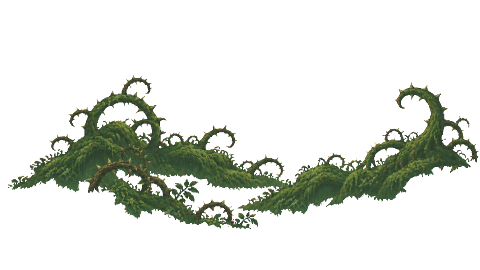
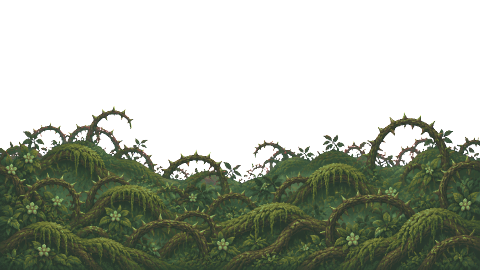
Thornwood: grounded middle layer, mist in front of every layer
- The middle layer was a thorn mound hanging in mid-air over the fog, which
  made the whole background feel like it floated. ChatGPT redrew it as a
  dense thicket of brambles, roots and mossy mounds growing up out of the
  forest floor, filling the bottom of the scene down to the edge.
- The fog was drawn on the far layer with a strong hue shift and showed as
  a hard band. It is now two soft bands of green-tinted ground mist rolling
  in front of all three layers, using a new fogband strip that fades out
  at the top and the bottom.
Release number bumped.

diff --git a/assets/bgfx/bgfx.js b/assets/bgfx/bgfx.js
@@ -1,2 +1,2 @@
 // generated by tools/bgfx.py: what moves in each background (see FX there)
-window.BGFX = {"hall":[{"k":"sprite","L":1,"s":"banner_hall","fps":6,"cx":146,"top":42,"n":6},{"k":"sprite","L":1,"s":"banner_hall","fps":6,"cx":335,"top":42,"t0":0.4,"n":6},{"k":"drift","L":3,"s":"dust","fps":3,"count":14,"area":[0,10,480,220],"vx":3,"vy":-1.5,"wob":4,"a":0.55,"n":4}],"cave":[{"k":"flow","s":"waterflow","fps":10,"a":0.8,"L":1,"m":"mask_cave_0","r":[137,93,13,57],"n":6},{"k":"flow","s":"waterflow","fps":10,"a":0.8,"L":1,"m":"mask_cave_1","r":[155,162,17,51],"n":6},{"k":"flow","s":"waterflow","fps":10,"a":0.8,"L":1,"m":"mask_cave_2","r":[290,122,13,68],"n":6},{"k":"drift","L":2,"s":"firefly","fps":6,"count":10,"area":[20,40,440,170],"vx":2,"vy":-1,"wob":6,"a":0.28,"add":1,"sc":0.5,"tint":"hue-rotate(60deg)","n":4}],"crypt":[{"k":"scroll","L":2,"s":"fog","y":184,"speed":6,"a":0.45,"tint":"hue-rotate(250deg) saturate(0.8)","n":1},{"k":"drift","L":3,"s":"dust","fps":3,"count":14,"area":[0,10,480,220],"vx":3,"vy":-1.5,"wob":4,"a":0.55,"n":4}],"forge":[{"k":"flow","L":1,"s":"lavaflow","fps":9,"a":0.8,"m":"mask_forge_0","r":[186,62,36,107],"n":6},{"k":"flow","L":1,"s":"lavaflow","fps":9,"a":0.8,"m":"mask_forge_1","r":[290,148,44,115],"n":6},{"k":"flow","L":1,"s":"lavaflow","fps":9,"a":0.8,"m":"mask_forge_2","r":[298,112,44,44],"n":6},{"k":"flow","L":1,"s":"lavaflow","fps":9,"a":0.8,"m":"mask_forge_3","r":[363,167,72,89],"n":6},{"k":"flow","L":1,"s":"lavaflow","fps":9,"a":0.8,"m":"mask_forge_4","r":[120,218,41,33],"n":6},{"k":"flow","L":0,"s":"lavaflow","fps":9,"a":0.8,"m":"mask_forge_5","r":[194,75,25,64],"n":6},{"k":"flow","L":0,"s":"lavaflow","fps":9,"a":0.8,"m":"mask_forge_6","r":[242,114,18,17],"n":6},{"k":"drift","L":3,"s":"ember","fps":8,"count":34,"area":[0,60,480,210],"vx":2,"vy":-14,"wob":5,"a":0.9,"add":1,"n":4}],"hollow":[{"k":"scroll","L":0,"s":"fog","y":140,"speed":4,"a":0.5,"n":1},{"k":"scroll","L":1,"s":"fog","y":200,"speed":9,"a":0.4,"n":1},{"k":"drift","L":2,"s":"firefly","fps":5,"count":8,"area":[30,60,420,160],"vx":1,"vy":-1,"wob":8,"a":0.25,"add":1,"sc":0.5,"tint":"saturate(0.2) brightness(1.2)","n":4}],"sanctum":[{"k":"flow","L":0,"s":"runeflow","fps":8,"add":1,"m":"mask_sanctum_0","r":[282,32,111,116],"n":6},{"k":"scroll","L":1,"s":"fog","y":205,"speed":5,"a":0.4,"tint":"hue-rotate(240deg) saturate(1.3)","n":1},{"k":"drift","L":2,"s":"firefly","fps":6,"count":10,"area":[20,30,440,190],"vx":1,"vy":-3,"wob":5,"a":0.25,"add":1,"sc":0.5,"tint":"hue-rotate(220deg) saturate(1.4)","n":4}],"thornwood":[{"k":"scroll","L":0,"s":"fog","y":165,"speed":4,"a":0.35,"tint":"hue-rotate(70deg)","n":1},{"k":"drift","L":2,"s":"firefly","fps":6,"count":12,"area":[20,50,440,180],"vx":2,"vy":-1,"wob":7,"a":0.25,"add":1,"sc":0.5,"n":4}],"glade":[{"k":"flow","s":"waterflow","fps":10,"a":0.8,"L":1,"m":"mask_glade_0","r":[236,137,30,49],"n":6},{"k":"flow","s":"waterflow","fps":10,"a":0.8,"L":1,"m":"mask_glade_1","r":[292,105,28,73],"n":6},{"k":"flow","s":"waterflow","fps":10,"a":0.8,"L":1,"m":"mask_glade_2","r":[344,102,26,52],"n":6},{"k":"flow","s":"waterflow","fps":10,"a":0.8,"L":1,"m":"mask_glade_3","r":[291,186,26,38],"n":6},{"k":"drift","L":2,"s":"firefly","fps":6,"count":12,"area":[20,40,440,190],"vx":2,"vy":-1,"wob":7,"a":0.25,"add":1,"sc":0.5,"tint":"hue-rotate(280deg) saturate(1.2)","n":4},{"k":"drift","L":3,"s":"butterfly","fps":10,"count":4,"area":[40,90,400,130],"vx":8,"vy":0,"wob":10,"a":1,"n":4}],"lake":[{"k":"ripple","L":0,"y0":150,"y1":270,"amp":1.2,"freq":0.45,"speed":2.0},{"k":"sway","L":2,"amp":2.2,"speed":1.3,"m":"sway_lake_0","r":[100,0,132,97]},{"k":"sway","L":0,"amp":0.7,"speed":1.1,"ph":1,"m":"sway_lake_1","r":[55,81,112,61]},{"k":"sway","L":0,"amp":0.6,"speed":1.2,"ph":2,"m":"sway_lake_2","r":[200,66,78,48]},{"k":"sway","L":0,"amp":0.6,"speed":1.0,"ph":3,"m":"sway_lake_3","r":[428,36,52,74]},{"k":"flow","s":"waterflow","fps":10,"a":0.8,"L":0,"m":"mask_lake_0","r":[192,116,36,42],"n":6},{"k":"flow","s":"waterflow","fps":10,"a":0.8,"L":0,"m":"mask_lake_1","r":[386,96,42,62],"n":6},{"k":"flow","L":0,"s":"moonflow","fps":6,"a":0.55,"add":1,"m":"mask_lake_2","r":[282,148,72,122],"n":6},{"k":"drift","L":0,"s":"cloud","fps":0,"count":4,"area":[0,6,480,60],"vx":2.5,"vy":0,"wob":0,"a":0.9,"n":4},{"k":"drift","L":1,"s":"firefly","fps":5,"count":10,"area":[60,140,360,60],"vx":1,"vy":-0.5,"wob":4,"a":0.25,"add":1,"sc":0.5,"tint":"hue-rotate(160deg) saturate(0.6)","n":4}],"camp":[{"k":"drift","L":3,"s":"dust","fps":3,"count":14,"area":[0,10,480,220],"vx":3,"vy":-1.5,"wob":4,"a":0.55,"n":4},{"k":"glow","L":1,"x":110,"y":190,"r":70,"c":"255,170,90","a":0.18,"period":3.2}],"boss":[{"k":"sprite","L":1,"s":"banner_boss","fps":6,"cx":140,"top":42,"n":6},{"k":"sprite","L":1,"s":"banner_boss","fps":6,"cx":340,"top":42,"t0":0.4,"n":6},{"k":"scroll","L":0,"s":"fog","y":200,"speed":7,"a":0.5,"tint":"hue-rotate(320deg) saturate(1.6) brightness(0.8)","n":1},{"k":"drift","L":3,"s":"ember","fps":8,"count":12,"area":[0,60,480,180],"vx":1,"vy":-8,"wob":5,"a":0.7,"add":1,"tint":"saturate(0.6) brightness(0.8)","n":4}],"yard":[{"k":"drift","L":0,"s":"cloud","fps":0,"count":5,"area":[0,6,480,70],"vx":3,"vy":0,"wob":0,"a":0.95,"n":4},{"k":"drift","L":3,"s":"butterfly","fps":10,"count":9,"area":[0,120,960,90],"vx":10,"vy":0,"wob":12,"a":1,"n":4}]};
+window.BGFX = {"hall":[{"k":"sprite","L":1,"s":"banner_hall","fps":6,"cx":146,"top":42,"n":6},{"k":"sprite","L":1,"s":"banner_hall","fps":6,"cx":335,"top":42,"t0":0.4,"n":6},{"k":"drift","L":3,"s":"dust","fps":3,"count":14,"area":[0,10,480,220],"vx":3,"vy":-1.5,"wob":4,"a":0.55,"n":4}],"cave":[{"k":"flow","s":"waterflow","fps":10,"a":0.8,"L":1,"m":"mask_cave_0","r":[137,93,13,57],"n":6},{"k":"flow","s":"waterflow","fps":10,"a":0.8,"L":1,"m":"mask_cave_1","r":[155,162,17,51],"n":6},{"k":"flow","s":"waterflow","fps":10,"a":0.8,"L":1,"m":"mask_cave_2","r":[290,122,13,68],"n":6},{"k":"drift","L":2,"s":"firefly","fps":6,"count":10,"area":[20,40,440,170],"vx":2,"vy":-1,"wob":6,"a":0.28,"add":1,"sc":0.5,"tint":"hue-rotate(60deg)","n":4}],"crypt":[{"k":"scroll","L":2,"s":"fog","y":184,"speed":6,"a":0.45,"tint":"hue-rotate(250deg) saturate(0.8)","n":1},{"k":"drift","L":3,"s":"dust","fps":3,"count":14,"area":[0,10,480,220],"vx":3,"vy":-1.5,"wob":4,"a":0.55,"n":4}],"forge":[{"k":"flow","L":1,"s":"lavaflow","fps":9,"a":0.8,"m":"mask_forge_0","r":[186,62,36,107],"n":6},{"k":"flow","L":1,"s":"lavaflow","fps":9,"a":0.8,"m":"mask_forge_1","r":[290,148,44,115],"n":6},{"k":"flow","L":1,"s":"lavaflow","fps":9,"a":0.8,"m":"mask_forge_2","r":[298,112,44,44],"n":6},{"k":"flow","L":1,"s":"lavaflow","fps":9,"a":0.8,"m":"mask_forge_3","r":[363,167,72,89],"n":6},{"k":"flow","L":1,"s":"lavaflow","fps":9,"a":0.8,"m":"mask_forge_4","r":[120,218,41,33],"n":6},{"k":"flow","L":0,"s":"lavaflow","fps":9,"a":0.8,"m":"mask_forge_5","r":[194,75,25,64],"n":6},{"k":"flow","L":0,"s":"lavaflow","fps":9,"a":0.8,"m":"mask_forge_6","r":[242,114,18,17],"n":6},{"k":"drift","L":3,"s":"ember","fps":8,"count":34,"area":[0,60,480,210],"vx":2,"vy":-14,"wob":5,"a":0.9,"add":1,"n":4}],"hollow":[{"k":"scroll","L":0,"s":"fog","y":140,"speed":4,"a":0.5,"n":1},{"k":"scroll","L":1,"s":"fog","y":200,"speed":9,"a":0.4,"n":1},{"k":"drift","L":2,"s":"firefly","fps":5,"count":8,"area":[30,60,420,160],"vx":1,"vy":-1,"wob":8,"a":0.25,"add":1,"sc":0.5,"tint":"saturate(0.2) brightness(1.2)","n":4}],"sanctum":[{"k":"flow","L":0,"s":"runeflow","fps":8,"add":1,"m":"mask_sanctum_0","r":[282,32,111,116],"n":6},{"k":"scroll","L":1,"s":"fog","y":205,"speed":5,"a":0.4,"tint":"hue-rotate(240deg) saturate(1.3)","n":1},{"k":"drift","L":2,"s":"firefly","fps":6,"count":10,"area":[20,30,440,190],"vx":1,"vy":-3,"wob":5,"a":0.25,"add":1,"sc":0.5,"tint":"hue-rotate(220deg) saturate(1.4)","n":4}],"thornwood":[{"k":"scroll","L":3,"s":"fogband","y":196,"speed":5,"a":0.22,"tint":"sepia(0.4) hue-rotate(40deg) saturate(0.8)","n":1},{"k":"scroll","L":3,"s":"fogband","y":222,"speed":9,"a":0.3,"tint":"sepia(0.4) hue-rotate(40deg) saturate(0.8)","n":1},{"k":"drift","L":2,"s":"firefly","fps":6,"count":12,"area":[20,50,440,180],"vx":2,"vy":-1,"wob":7,"a":0.25,"add":1,"sc":0.5,"n":4}],"glade":[{"k":"flow","s":"waterflow","fps":10,"a":0.8,"L":1,"m":"mask_glade_0","r":[236,137,30,49],"n":6},{"k":"flow","s":"waterflow","fps":10,"a":0.8,"L":1,"m":"mask_glade_1","r":[292,105,28,73],"n":6},{"k":"flow","s":"waterflow","fps":10,"a":0.8,"L":1,"m":"mask_glade_2","r":[344,102,26,52],"n":6},{"k":"flow","s":"waterflow","fps":10,"a":0.8,"L":1,"m":"mask_glade_3","r":[291,186,26,38],"n":6},{"k":"drift","L":2,"s":"firefly","fps":6,"count":12,"area":[20,40,440,190],"vx":2,"vy":-1,"wob":7,"a":0.25,"add":1,"sc":0.5,"tint":"hue-rotate(280deg) saturate(1.2)","n":4},{"k":"drift","L":3,"s":"butterfly","fps":10,"count":4,"area":[40,90,400,130],"vx":8,"vy":0,"wob":10,"a":1,"n":4}],"lake":[{"k":"ripple","L":0,"y0":150,"y1":270,"amp":1.2,"freq":0.45,"speed":2.0},{"k":"sway","L":2,"amp":2.2,"speed":1.3,"m":"sway_lake_0","r":[100,0,132,97]},{"k":"sway","L":0,"amp":0.7,"speed":1.1,"ph":1,"m":"sway_lake_1","r":[55,81,112,61]},{"k":"sway","L":0,"amp":0.6,"speed":1.2,"ph":2,"m":"sway_lake_2","r":[200,66,78,48]},{"k":"sway","L":0,"amp":0.6,"speed":1.0,"ph":3,"m":"sway_lake_3","r":[428,36,52,74]},{"k":"flow","s":"waterflow","fps":10,"a":0.8,"L":0,"m":"mask_lake_0","r":[192,116,36,42],"n":6},{"k":"flow","s":"waterflow","fps":10,"a":0.8,"L":0,"m":"mask_lake_1","r":[386,96,42,62],"n":6},{"k":"flow","L":0,"s":"moonflow","fps":6,"a":0.55,"add":1,"m":"mask_lake_2","r":[282,148,72,122],"n":6},{"k":"drift","L":0,"s":"cloud","fps":0,"count":4,"area":[0,6,480,60],"vx":2.5,"vy":0,"wob":0,"a":0.9,"n":4},{"k":"drift","L":1,"s":"firefly","fps":5,"count":10,"area":[60,140,360,60],"vx":1,"vy":-0.5,"wob":4,"a":0.25,"add":1,"sc":0.5,"tint":"hue-rotate(160deg) saturate(0.6)","n":4}],"camp":[{"k":"drift","L":3,"s":"dust","fps":3,"count":14,"area":[0,10,480,220],"vx":3,"vy":-1.5,"wob":4,"a":0.55,"n":4},{"k":"glow","L":1,"x":110,"y":190,"r":70,"c":"255,170,90","a":0.18,"period":3.2}],"boss":[{"k":"sprite","L":1,"s":"banner_boss","fps":6,"cx":140,"top":42,"n":6},{"k":"sprite","L":1,"s":"banner_boss","fps":6,"cx":340,"top":42,"t0":0.4,"n":6},{"k":"scroll","L":0,"s":"fog","y":200,"speed":7,"a":0.5,"tint":"hue-rotate(320deg) saturate(1.6) brightness(0.8)","n":1},{"k":"drift","L":3,"s":"ember","fps":8,"count":12,"area":[0,60,480,180],"vx":1,"vy":-8,"wob":5,"a":0.7,"add":1,"tint":"saturate(0.6) brightness(0.8)","n":4}],"yard":[{"k":"drift","L":0,"s":"cloud","fps":0,"count":5,"area":[0,6,480,70],"vx":3,"vy":0,"wob":0,"a":0.95,"n":4},{"k":"drift","L":3,"s":"butterfly","fps":10,"count":9,"area":[0,120,960,90],"vx":10,"vy":0,"wob":12,"a":1,"n":4}]};

diff --git a/index.html b/index.html
@@ -14,9 +14,9 @@
 <canvas id="c" width="960" height="540"></canvas>
 <!-- animation frame data (generated by tools/animate.py); the game still runs if it's missing.
      ?v= is the release: bump it (here and BUILD below) whenever art or data changes, so browsers never mix an old cached file with a new page -->
-<script src="assets/anim/anims.js?v=20261113b"></script>
-<script src="assets/anim/looks.js?v=20261113b"></script>
-<script src="assets/bgfx/bgfx.js?v=20261113b"></script>
+<script src="assets/anim/anims.js?v=20261113c"></script>
+<script src="assets/anim/looks.js?v=20261113c"></script>
+<script src="assets/bgfx/bgfx.js?v=20261113c"></script>
 <!-- pixel fonts (OFL) stored as data; the game falls back to system fonts if it's missing -->
 <script src="assets/fonts/fonts.js"></script>
 <script>
@@ -50,7 +50,7 @@ let TIME = 0;
 //  Anything missing falls back to the original code-drawn graphics.
 // =====================================================================
 const PX = 2;  // world sprites are drawn at 2x
-const BUILD = '20261113b';   // the release (same as the ?v= on the data scripts above): bump both when art or data changes
+const BUILD = '20261113c';   // the release (same as the ?v= on the data scripts above): bump both when art or data changes
 const ART = {};
 // ability effect sprites (assets/vfx): three ChatGPT sheets cut by tools/pixelate.py vfx
 const VFX_SPR = ['star', 'fireball', 'flame', 'spark', 'meteor', 'sun', 'moon', 'feather', 'note', 'wave', 'plus', 'bubble',

diff --git a/tools/bgfx.py b/tools/bgfx.py
@@ -101,7 +101,8 @@ FX = {
     'sanctum': [dict(k='flow', L=0, s='runeflow', fps=8, rule='rune', rect=[278, 32, 116, 116], add=1),
                 dict(k='scroll', L=1, s='fog', y=205, speed=5, a=0.4, tint='hue-rotate(240deg) saturate(1.3)'),
                 dict(k='drift', L=2, s='firefly', fps=6, count=10, area=[20, 30, 440, 190], vx=1, vy=-3, wob=5, a=0.25, add=1, sc=0.5, tint='hue-rotate(220deg) saturate(1.4)')],   # faint little motes
-    'thornwood': [dict(k='scroll', L=0, s='fog', y=165, speed=4, a=0.35, tint='hue-rotate(70deg)'),
+    'thornwood': [dict(k='scroll', L=3, s='fogband', y=196, speed=5, a=0.22, tint='sepia(0.4) hue-rotate(40deg) saturate(0.8)'),   # ground mist rolling in front of every layer
+                  dict(k='scroll', L=3, s='fogband', y=222, speed=9, a=0.3, tint='sepia(0.4) hue-rotate(40deg) saturate(0.8)'),
                   dict(k='drift', L=2, s='firefly', fps=6, count=12, area=[20, 50, 440, 180], vx=2, vy=-1, wob=7, a=0.25, add=1, sc=0.5)],   # faint little fireflies
     'glade': [dict(W_([236, 134, 30, 52]), L=1), dict(W_([292, 104, 28, 76]), L=1), dict(W_([344, 98, 26, 56]), L=1), dict(W_([291, 180, 26, 44]), L=1),
               dict(k='drift', L=2, s='firefly', fps=6, count=12, area=[20, 40, 440, 190], vx=2, vy=-1, wob=7, a=0.25, add=1, sc=0.5, tint='hue-rotate(280deg) saturate(1.2)'),   # faint little fireflies
@@ -200,6 +201,12 @@ def write_js():
     frames = {}
     for name, (src, n, h, opt) in STRIPS.items():
         if os.path.exists(os.path.join(RAW, f'fx_{src}.png')): frames[name] = build(src, n, h, out_name=name, **opt)
+    if 'fog' in frames:   # fogband: the fog strip fading out at the bottom as well, for mist that floats mid-scene
+        fog = Image.open(os.path.join(OUT, 'fog.png')).convert('RGBA'); r, g, b, a = fog.split(); ap = a.load(); H = fog.height
+        for y in range(H):
+            k = min(1.0, (H - 1 - y) / (H * 0.45))
+            for x in range(fog.width): ap[x, y] = int(ap[x, y] * k)
+        Image.merge('RGBA', (r, g, b, a)).save(os.path.join(OUT, 'fogband.png')); frames['fogband'] = 1
     out = {}
     for area, effects in FX.items():
         out[area] = []
